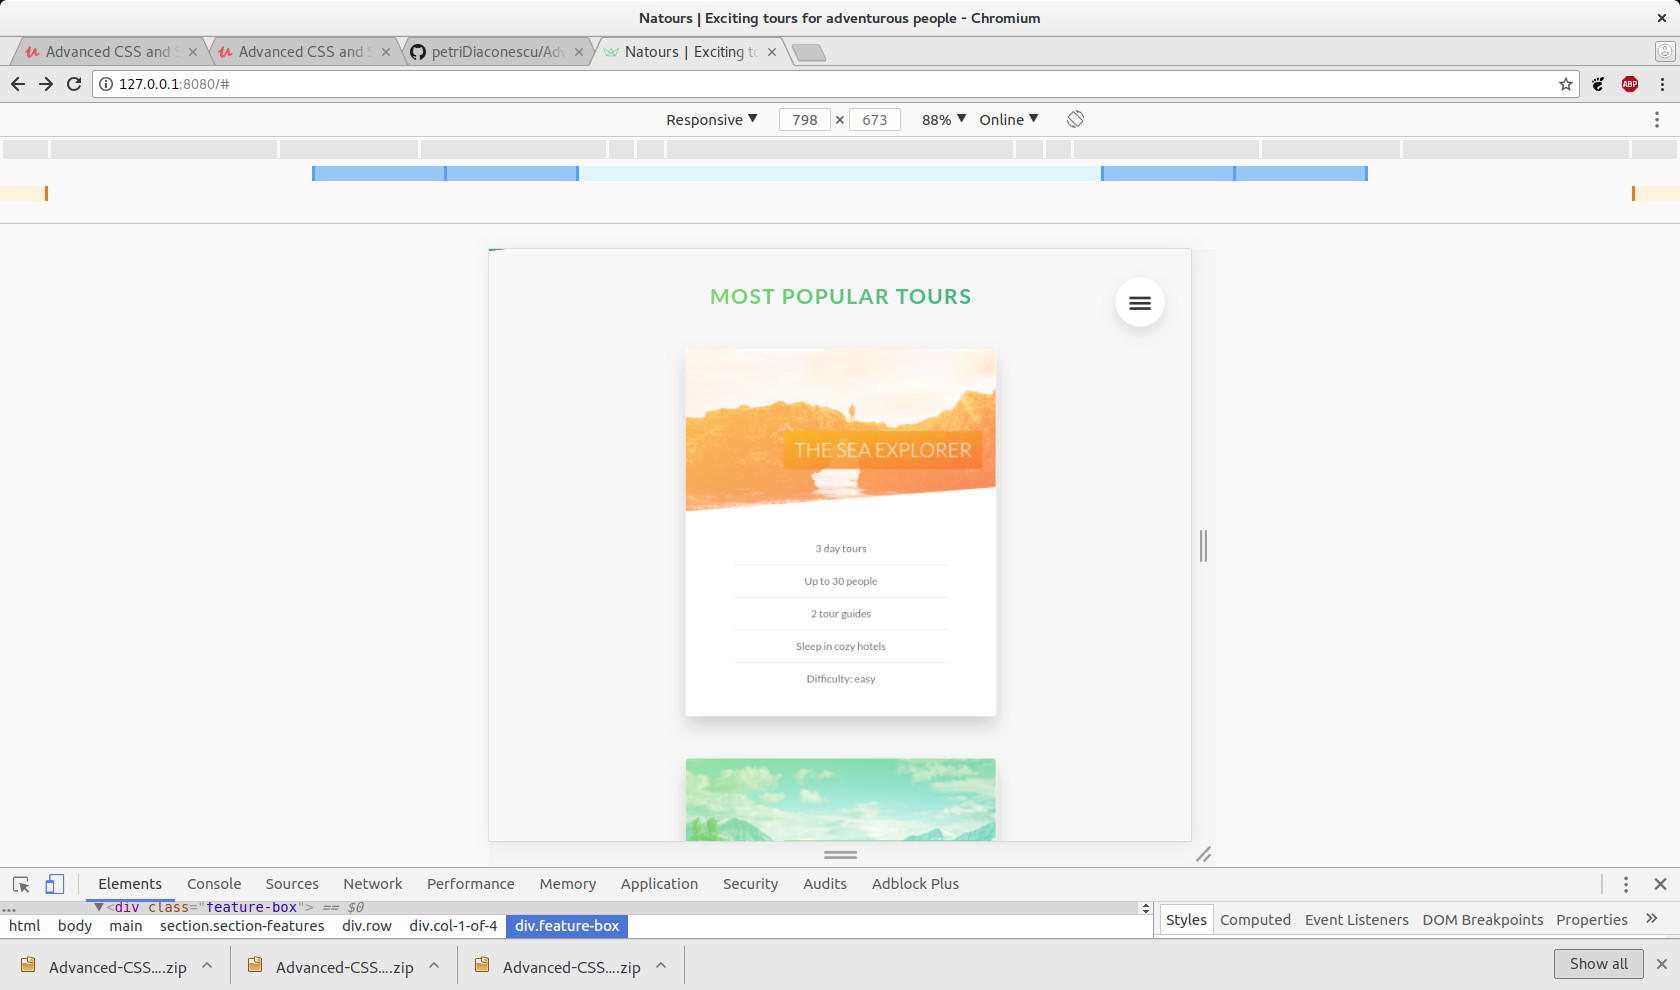
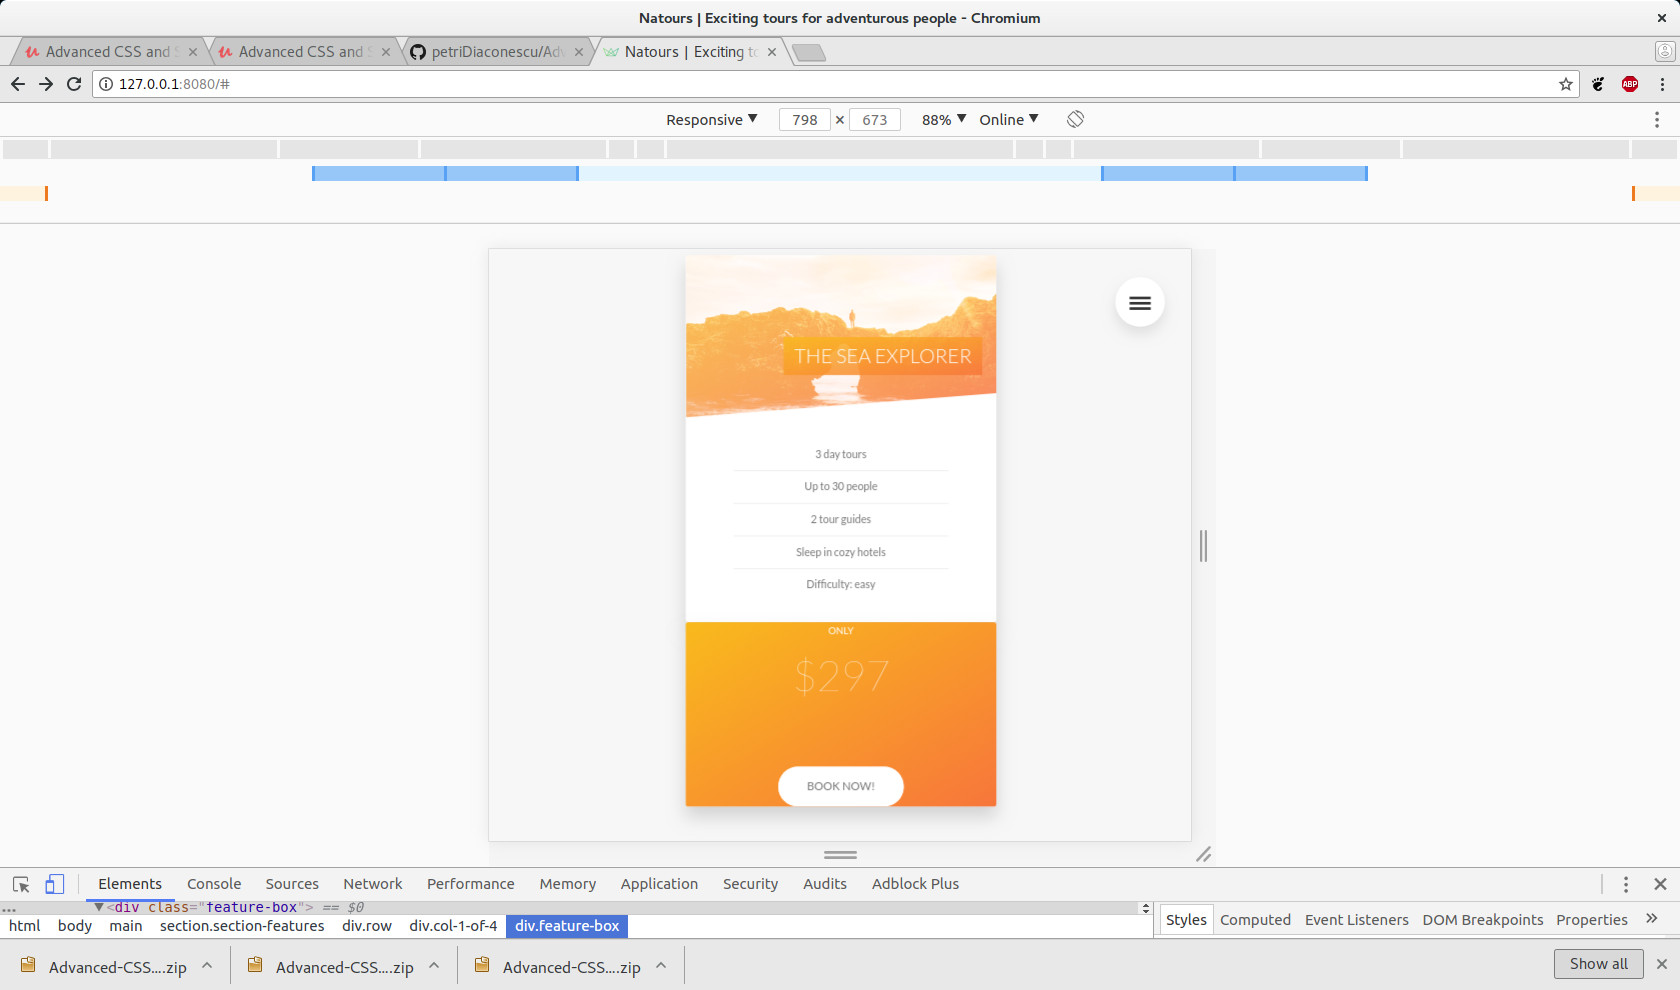
Clip the background of the .card__side--back under 900px

Changed region(s): [[0.4024, 0.2727, 0.619, 0.8485]]

diff --git a/sass/components/_card.scss b/sass/components/_card.scss
@@ -170,6 +170,7 @@
       
       &--back {
         transform: rotateY(0deg);
+        clip-path: polygon(0 15%, 100% 0, 100% 100%, 0 100%);
       }
     }
 
@@ -186,10 +187,11 @@
       left: 0;
       transform: translate(0);
       width: 100%;
+      padding: 4rem;
     }
 
     &__price-box {
-      margin-bottom: 8rem;
+      margin-bottom: 3rem;
     }
 
    
